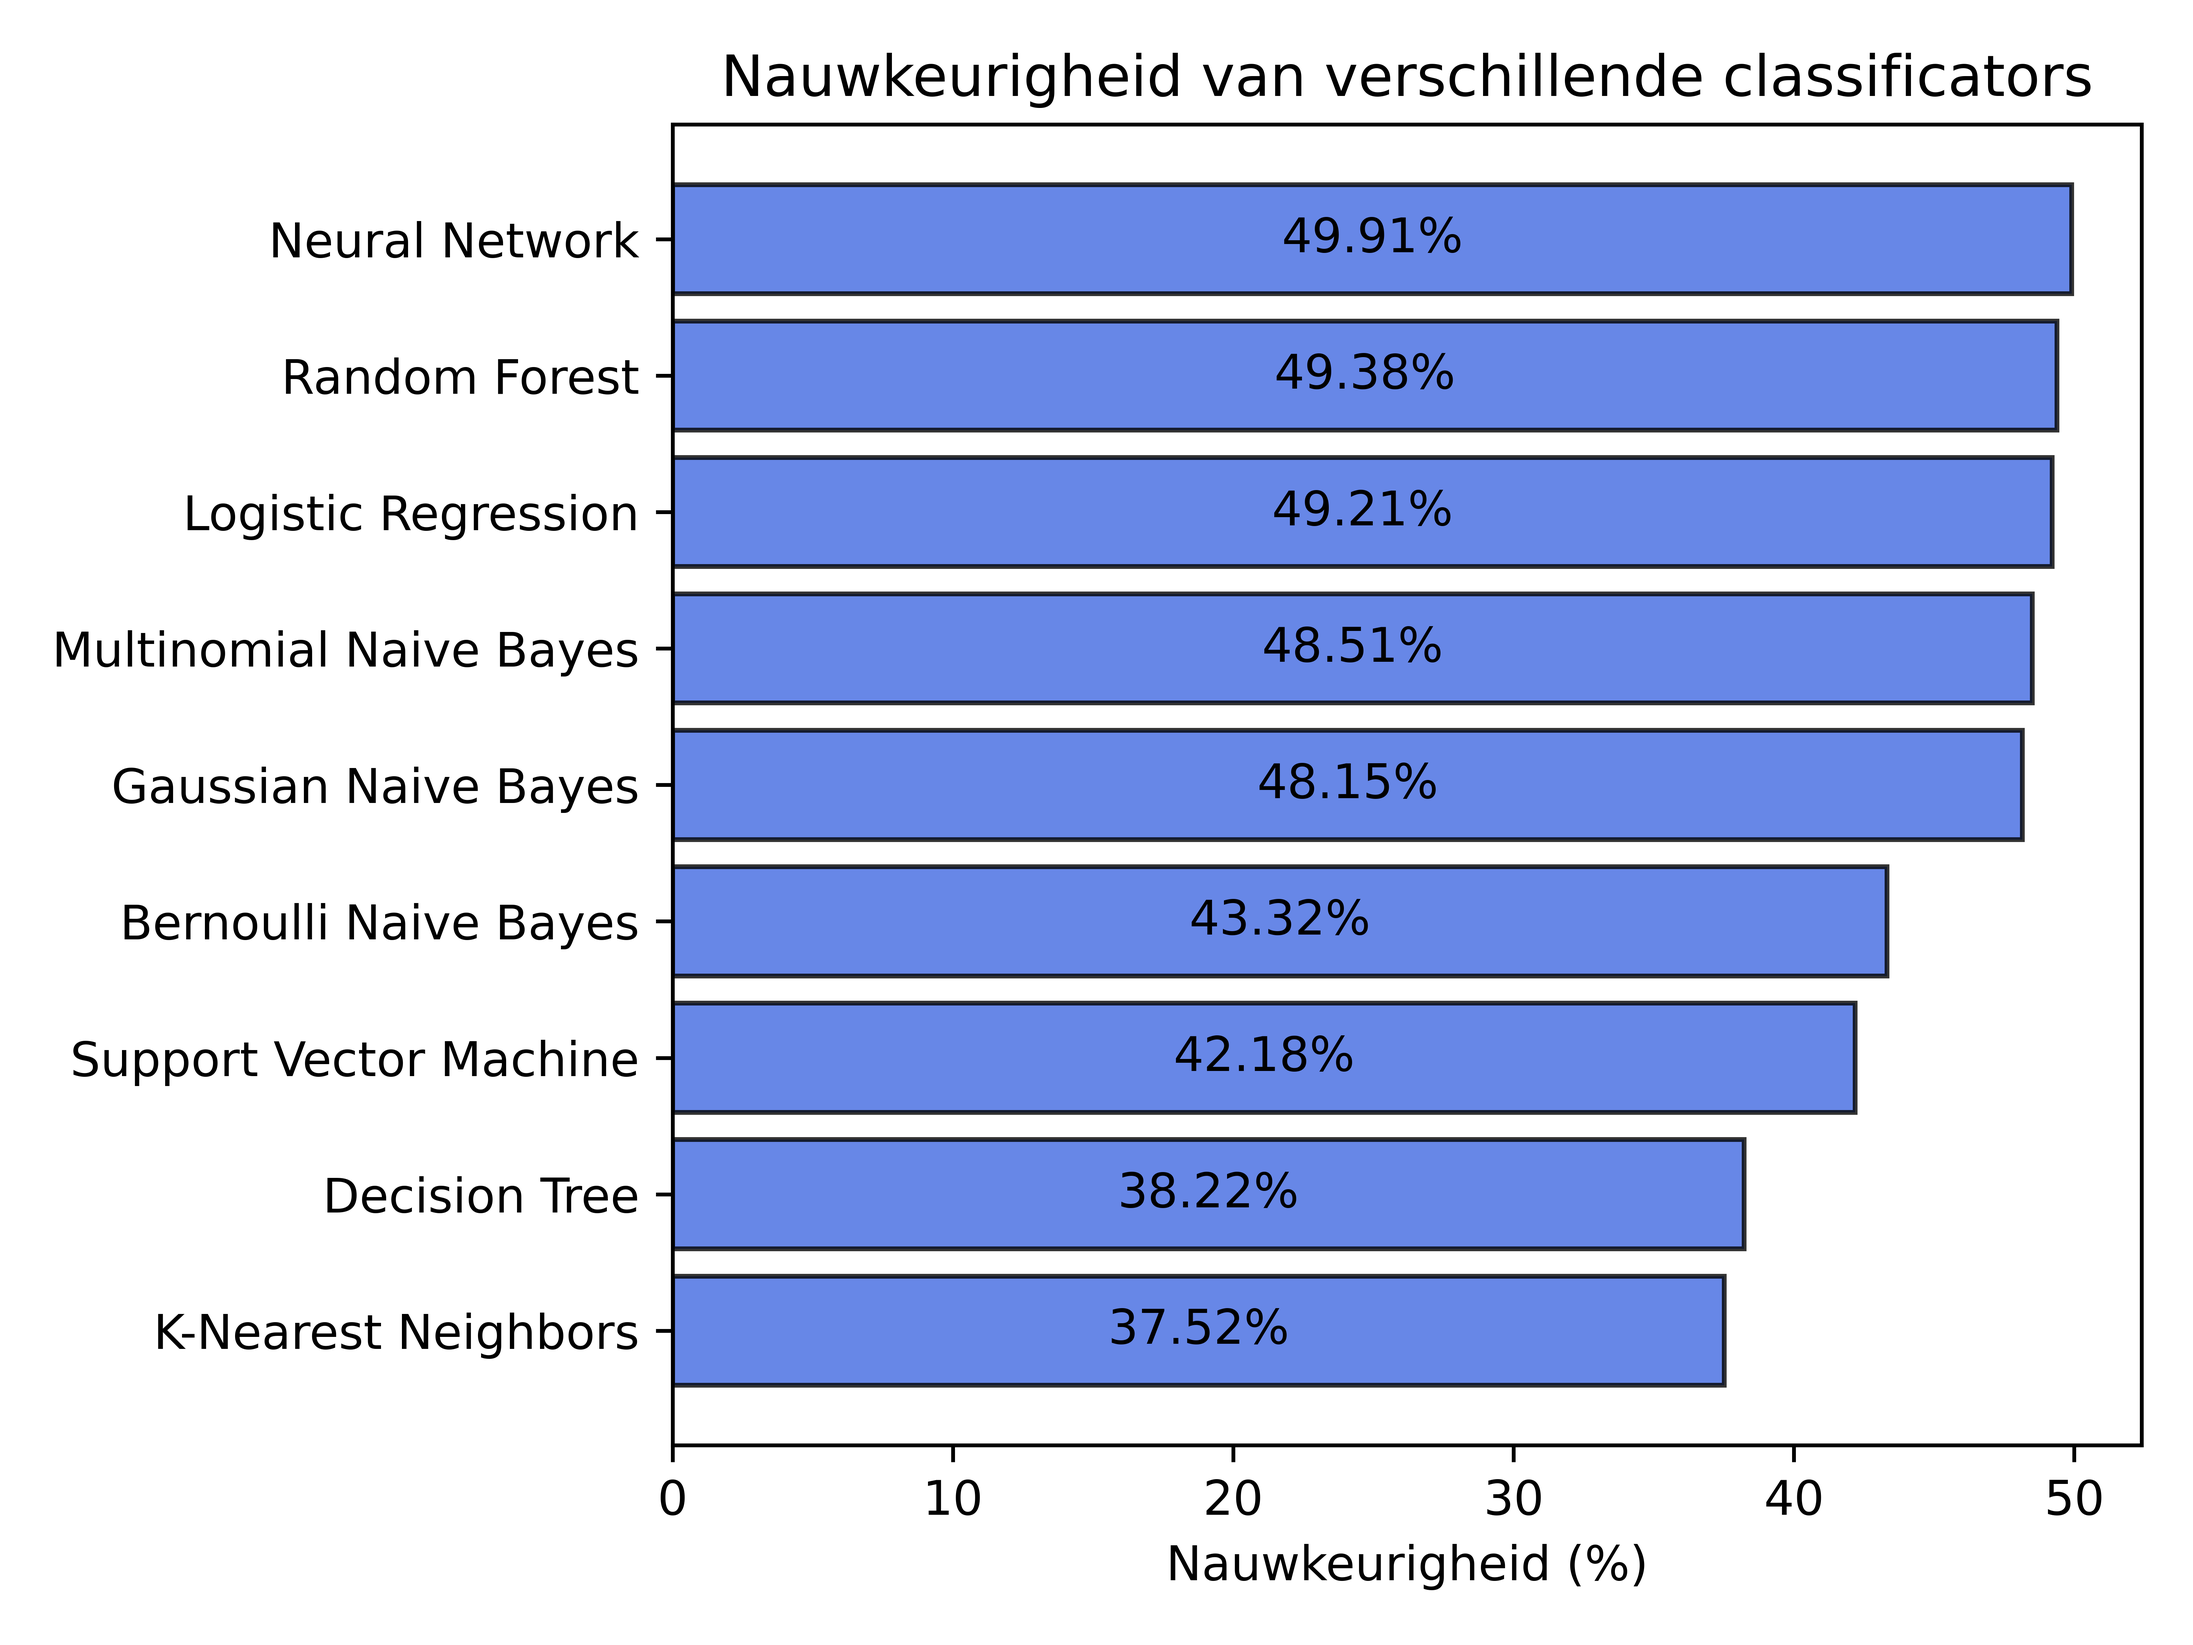
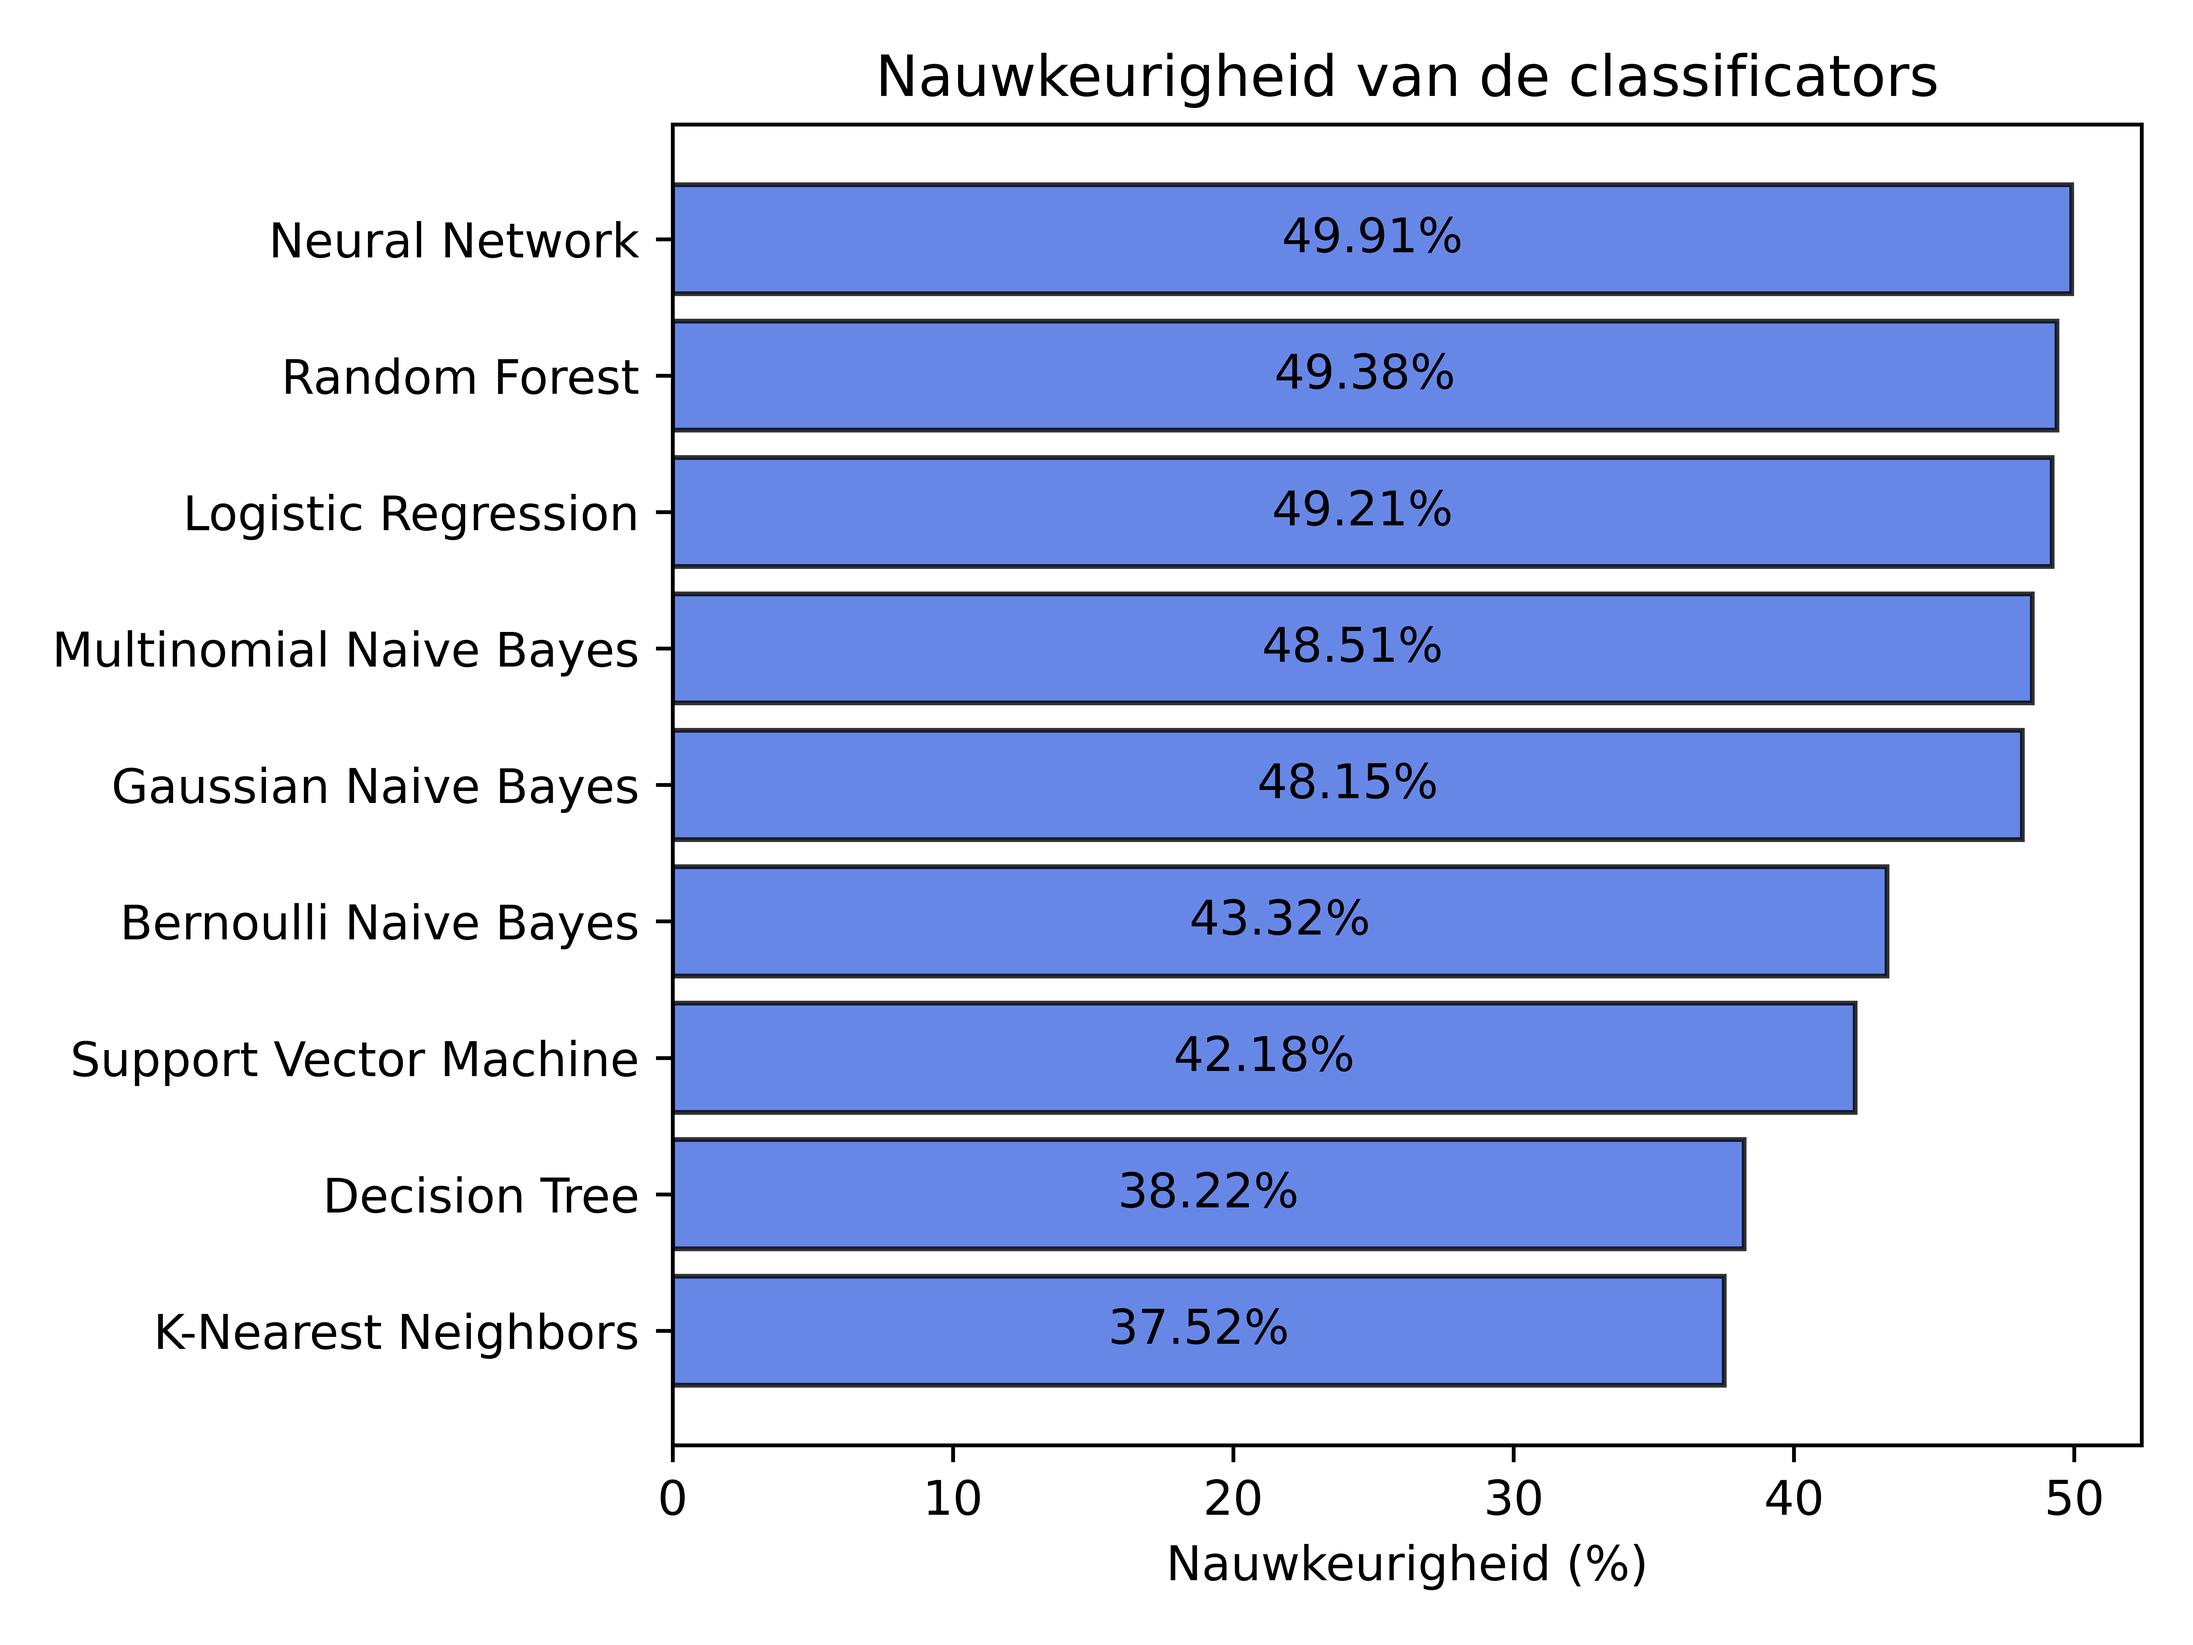
Changed plot titles

Changed region(s): [[0.3125, 0.0312, 0.9688, 0.0625]]

diff --git a/plot.py b/plot.py
@@ -50,12 +50,12 @@ model_names = {
 def plot_bars(data, filename, n, model_type="all"):
     if model_type == "classification":
         data = data[data["type"] == model_type]
-        title = "Nauwkeurigheid van verschillende classificators"
+        title = "Nauwkeurigheid van de classificators"
     elif model_type == "regression":
         data = data[data["type"] == model_type]
-        title = "Nauwkeurigheid van verschillende regressors"
+        title = "Nauwkeurigheid van de regressors"
     else:
-        title = "Nauwkeurigheid van verschillende modellen"
+        title = "Nauwkeurigheid van de modellen"
 
     data = data.sort_values(by="type", ascending=False)
     data = data.sort_values(by="accuracy", ascending=True)
